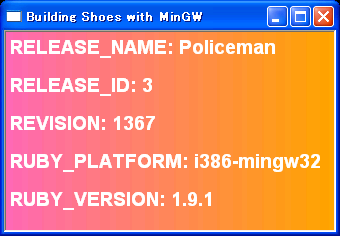
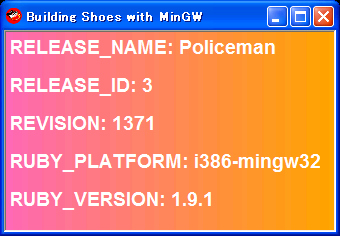
There is no need to do: `mv shoes-bin.exe shoes.exe` now.

diff --git a/md/hack019.md b/md/hack019.md
@@ -56,13 +56,11 @@ That's it! The c:\shoes_dev\sandbox\shoes\dist\shoes-bin.exe is there. :-D
 Package Shoes
 -------------
 
-- cd c:\shoes_dev\sandbox\shoes\dist
-- mv shoes-bin.exe shoes.exe
 - cd c:\shoes_dev\sandbox\shoes
 - set NSIS=C:\Program Files\NSIS  (See also [this](http://github.com/ashbb/shoes_hack_note/tree/master/md/hack006.md))
 - rake installer
 
-That's it! The C:\shoes_dev\sandbox\shoes\pkg\shoes-0.r1367.exe is there.   
+That's it! The C:\shoes_dev\sandbox\shoes\pkg\shoes-0.r1371.exe is there.   
 You can install Shoes just one click. ;-)
 
 
@@ -89,8 +87,8 @@ end
 
 Note
 ----
-- add Shoes icon
+- add Shoes icon ... done!
 - launch Shoes without Windows' console
 - merge the latest Shoes code ... done!
-- update dependencies ... done! (Ruby 1.9.1p378 only, so far)
+- update dependencies ... done! (Ruby 1.9.1p378 and libjpeg v8, so far)
 
